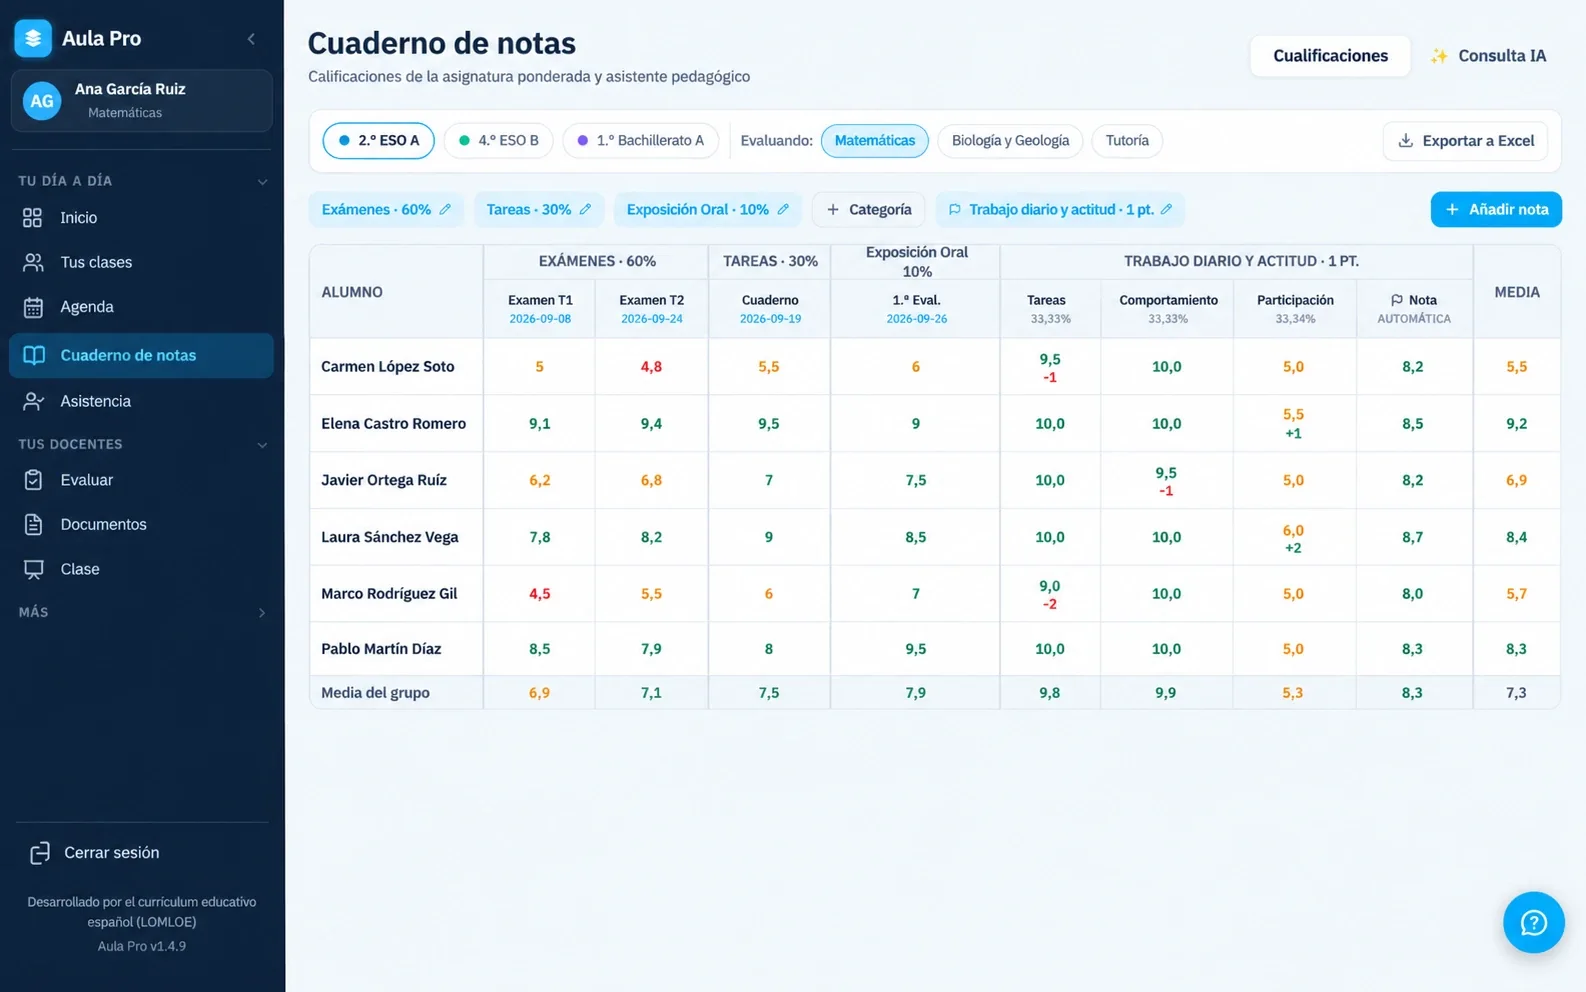
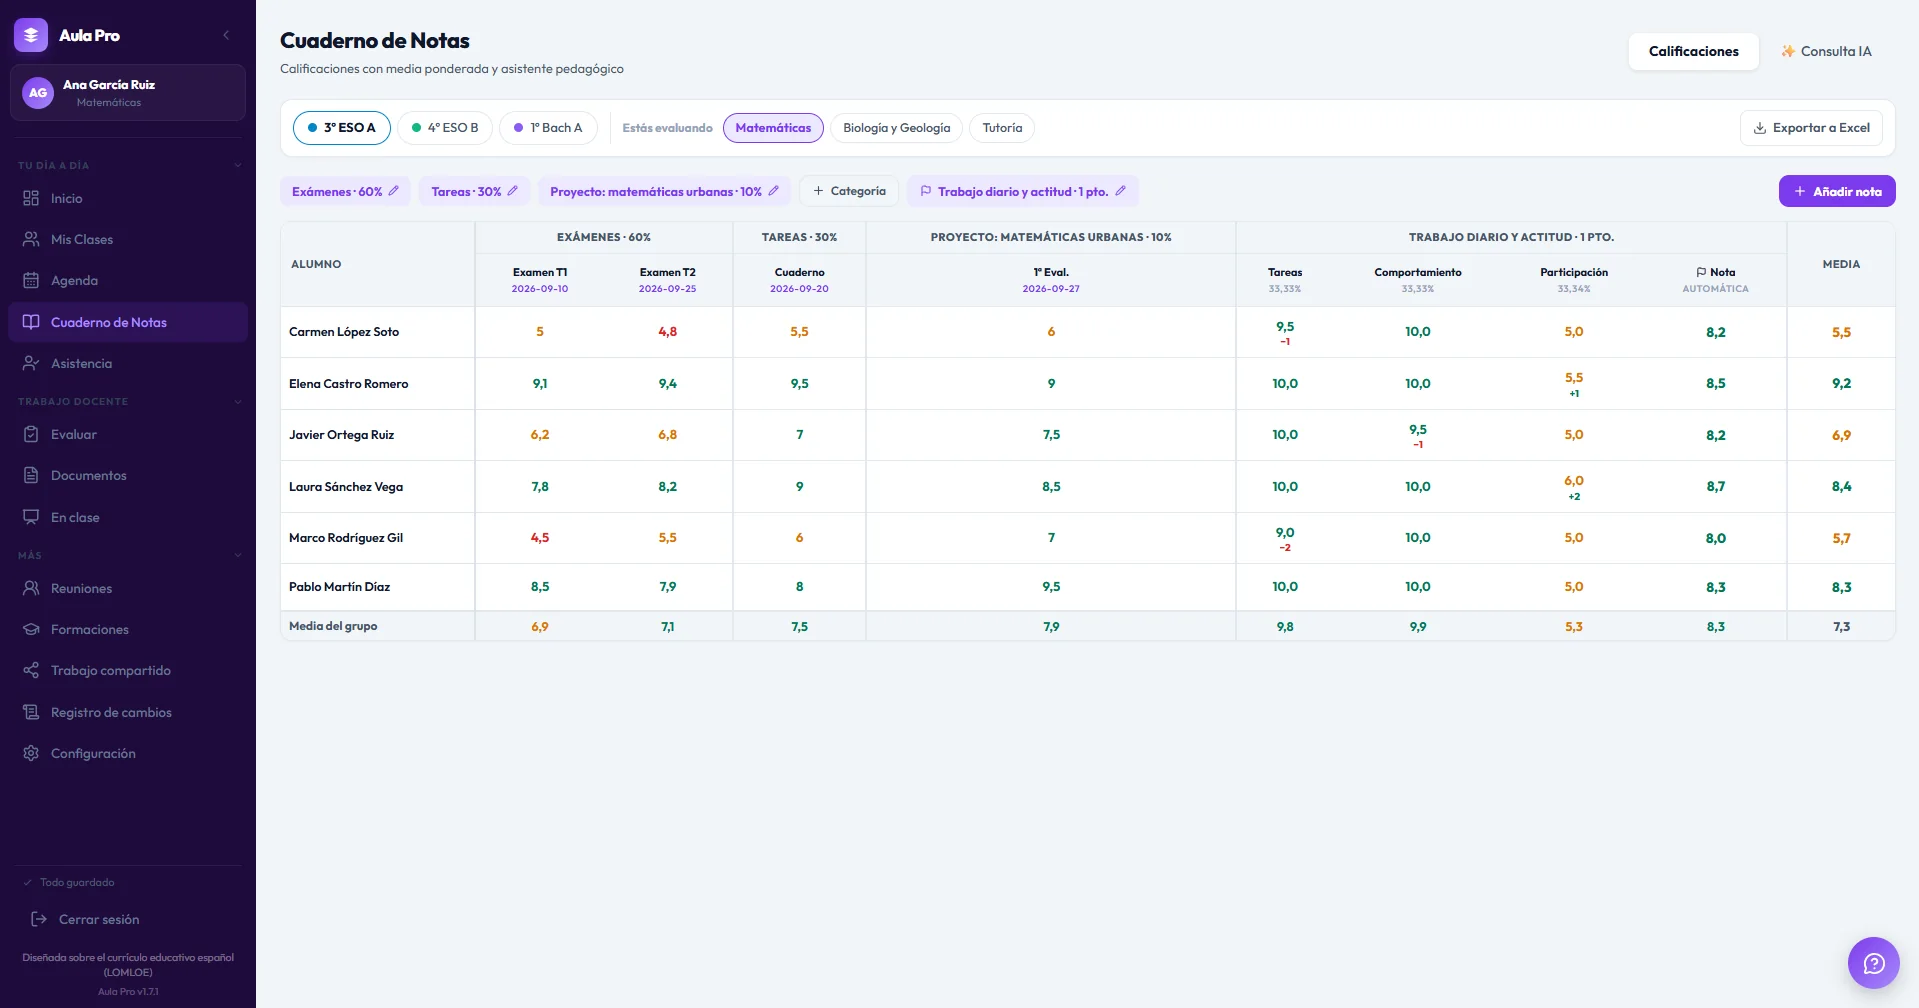
Cuaderno de notas: captura oficial de la versión 1.7.1 (#39)
Sustituye assets/app/cuaderno.webp por la captura oficial del usuario,
sin la barra de título de Windows como las demás (1919x1008).

diff --git a/web/sitio/index.html b/web/sitio/index.html
@@ -902,7 +902,7 @@ html.zoom-open{overflow:hidden}
         <p data-i18n="strip.langs">Toda la aplicación, en tres idiomas.</p>
       </div>
       <figure class="mini">
-        <div class="frame" data-zoom><img src="assets/app/cuaderno.webp" width="1586" height="992" loading="lazy" decoding="async" alt="Cuaderno de notas de AulaPro en castellano." data-i18n-attr="alt:strip.alt"></div>
+        <div class="frame" data-zoom><img src="assets/app/cuaderno.webp" width="1919" height="1008" loading="lazy" decoding="async" alt="Cuaderno de notas de AulaPro en castellano." data-i18n-attr="alt:strip.alt"></div>
         <figcaption class="cap" data-i18n="strip.cap">Cuaderno de notas, en castellano.</figcaption>
       </figure>
     </div>

diff --git a/web/DISENO.md b/web/DISENO.md
@@ -269,5 +269,5 @@ El texto definitivo de esta ronda vive en `aulapro/index.html` (castellano) y `a
 
 ## 23. Captura del cuaderno en castellano (1-10-2026, petición del usuario)
 
-- En la franja de idiomas ("En castellano. En català. In English."), la captura del cuaderno de notas en catalán (`cuaderno-ca.webp`, 1440x900) se sustituye por la del usuario en castellano (`assets/app/cuaderno.webp`, 1586x992). El pie y el texto alternativo dicen ahora "en castellano", en los tres idiomas.
+- En la franja de idiomas ("En castellano. En català. In English."), la captura del cuaderno de notas en catalán (`cuaderno-ca.webp`, 1440x900) se sustituye por la del usuario en castellano (`assets/app/cuaderno.webp`). Ese mismo día pasa a ser la captura oficial de la versión 1.7.1, sin la barra de título de Windows (1919x1008), como las demás capturas. El pie y el texto alternativo dicen ahora "en castellano", en los tres idiomas.
 
